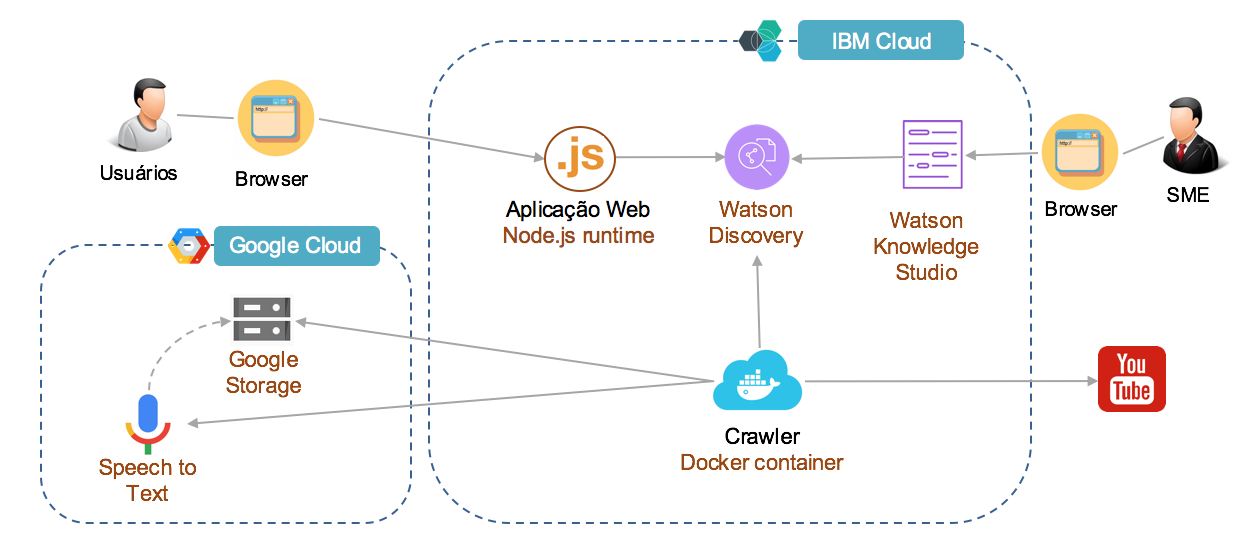
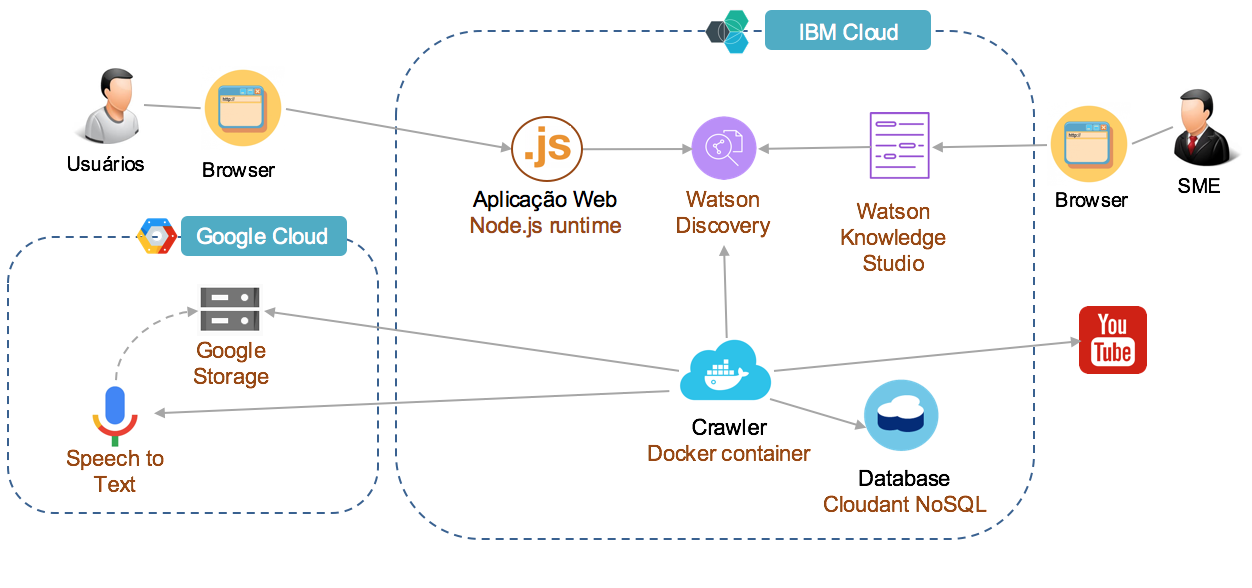
update documentação

diff --git a/ReadMe.md b/ReadMe.md
@@ -25,10 +25,11 @@ A IBM Cloud foi a plataforma selecionada para executar a aplicação de busca co
 
 ![Figura2](./docs/figura2.png)
 
-### Serviços IBM Watson
+### Serviços IBM Cloud
 
 *	Watson Discovery Service: responsável por indexar o conteúdo e implementar a busca inteligente.
 *	Watson Knowledge Studio: utilizado pelo especialista para treinar um modelo customizado.
+* Cloudant NoSQL: database utilizado para controle do processo de transcrição
 
 ### Serviços Google Cloud
 
